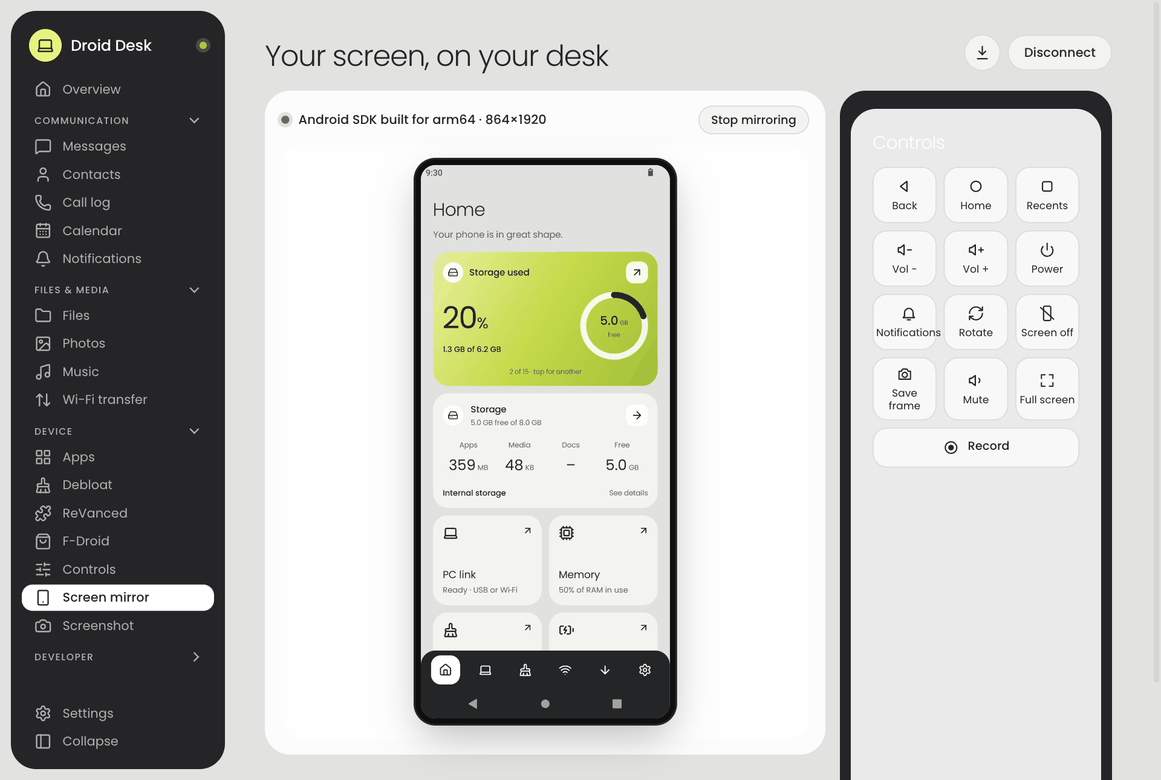
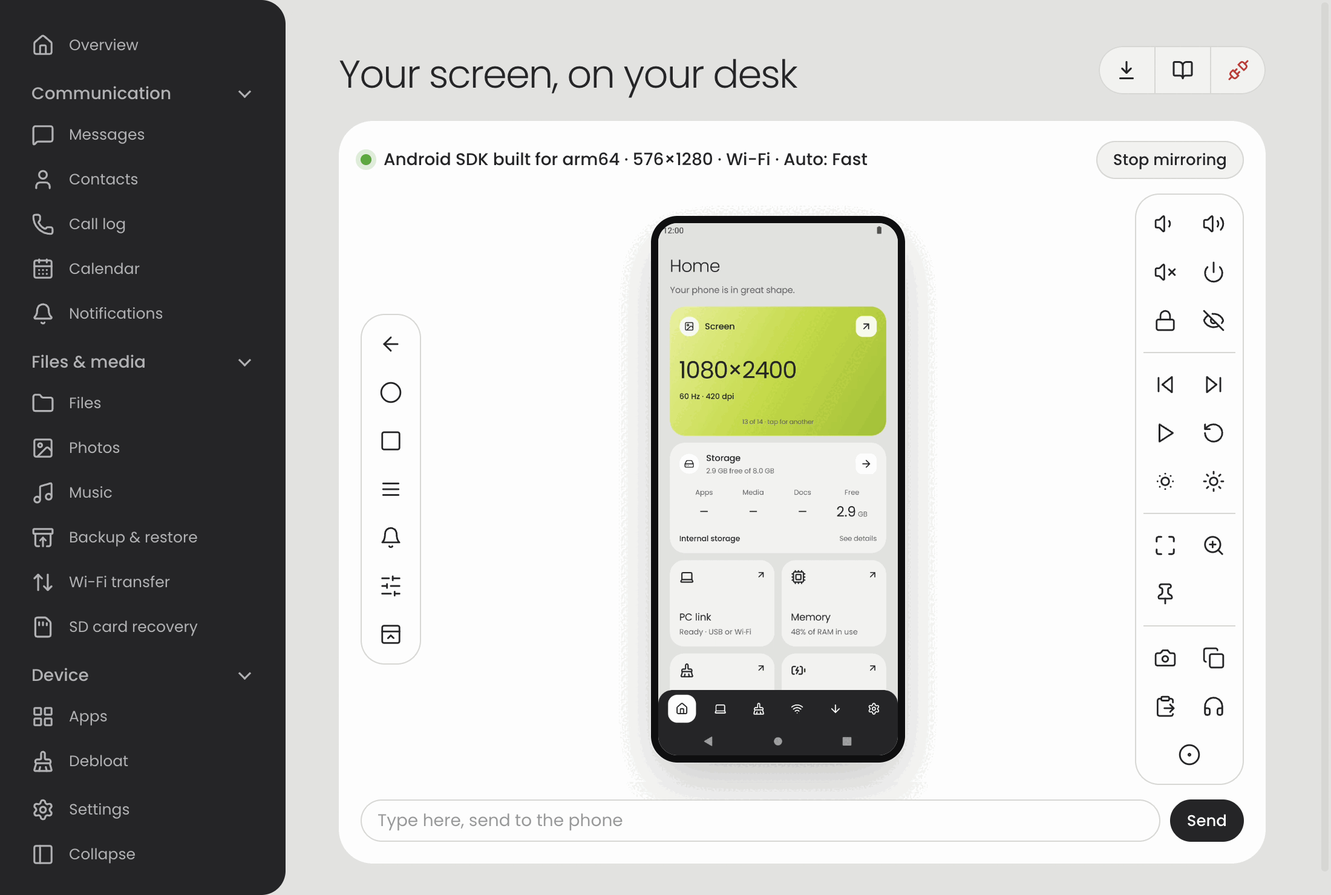
Put the mirror controls around the phone's screen, with Auto quality
While mirroring, navigation sits in a vertical strip left of the
phone's screen and every other control in an icon strip on its right,
two icons wide. The controls are icons only: their names are tooltips
and what screen readers say. The text box is under the screen.

Quality "Auto", the new default, starts at Balanced over the cable and
Fast over Wi-Fi, and when the picture falls behind the phone it starts
again a step lower, down to the new Low (540p, 2 Mbps). The sound
buffer starts larger over Wi-Fi and grows a little after each gap.

Changed region(s): [[0.0, 0.0, 0.9688, 1.0], [0.875, 0.7132, 0.9062, 0.7442]]

diff --git a/src/app.js b/src/app.js
@@ -3052,15 +3052,21 @@ function closeNotifToast(key) {
 // We decode with WebCodecs (hardware) and send touches/keys back over the control socket.
 const SCRCPY_VERSION = "3.3.3";
 const MIRROR_QUALITY = {
+  low: { maxSize: 960, videoBitRate: 2_000_000 },
   fast: { maxSize: 1280, videoBitRate: 4_000_000 },
   balanced: { maxSize: 1920, videoBitRate: 8_000_000 },
   sharp: { maxSize: 0, videoBitRate: 16_000_000 },
 };
+// "Auto" starts here for each kind of link, and steps down this ladder when the picture falls behind.
+const MIRROR_LADDER = ["balanced", "fast", "low"];
+const autoStart = () => (connectedVia === "wifi" ? "fast" : "balanced");
+// Falling behind: the newest picture is this much older than the quickest one seen, for this many seconds in a row.
+const MIRROR_BEHIND_MS = 800, MIRROR_BEHIND_SECONDS = 3;
 let mirror = null; // { client, decoder, canvas, controller, screenOff, stopping }
 
 // The options on the mirror page, remembered between launches; Settings edits the same ones.
 const mirrorPrefs = {
-  QUALITY: [["fast", "Fast (720p · 4 Mbps)"], ["balanced", "Balanced (1080p · 8 Mbps)"], ["sharp", "Sharp (full resolution · 16 Mbps)"]],
+  QUALITY: [["auto", "Auto (adjusts to the cable or Wi‑Fi)"], ["low", "Low (540p · 2 Mbps, weak Wi‑Fi)"], ["fast", "Fast (720p · 4 Mbps)"], ["balanced", "Balanced (1080p · 8 Mbps)"], ["sharp", "Sharp (full resolution · 16 Mbps)"]],
   SOURCE: [["screen", "Phone screen"], ["back", "Back camera"], ["front", "Front camera"]],
   FPS: [["60", "Up to 60 a second"], ["30", "Up to 30 a second"], ["15", "Up to 15 a second"]],
   CODEC: [["h264", "H.264 (works everywhere)"], ["h265", "H.265 (sharper at the same speed)"]],
@@ -3068,7 +3074,7 @@ const mirrorPrefs = {
     let p = {}; try { p = JSON.parse(localStorage.getItem("andromon.mirror")) || {}; } catch {}
     const one = (list, v, d) => (list.some(([id]) => id === String(v)) ? v : d);
     return {
-      quality: one(this.QUALITY, p.quality, "balanced"), source: one(this.SOURCE, p.source, "screen"),
+      quality: one(this.QUALITY, p.quality, "auto"), source: one(this.SOURCE, p.source, "screen"),
       audio: p.audio !== false, screenOff: p.screenOff === true, fps: Number(one(this.FPS, p.fps, 60)),
       codec: one(this.CODEC, p.codec, "h264"), touches: p.touches === true, awake: p.awake !== false,
       lockOnStop: p.lockOnStop === true, clipboard: p.clipboard !== false,
@@ -3090,8 +3096,12 @@ const mirrorPrefs = {
 };
 mirrorPrefs.show();
 $("mirrorSettings").addEventListener("click", () => show("settings"));
-// A control's label sits in a <span> beside its icon.
-const keyLabel = (btn, text) => { btn.querySelector("span").textContent = text; };
+// The controls are icons only: a control's name is its tooltip and what screen readers say.
+// `shown` is short text next to the icon, used only by Record for its running time.
+const keyLabel = (btn, text, shown = "") => {
+  btn.title = text; btn.setAttribute("aria-label", text);
+  const s = btn.querySelector("span"); if (s) s.textContent = shown;
+};
 
 // The control grid: [key, label, tooltip, icon] in named groups. What each does is in KEY_BUTTONS below.
 const MIRROR_KEYS = [
@@ -3100,24 +3110,35 @@ const MIRROR_KEYS = [
     ["closepanels", "Close panels", "Close the notification shade and quick settings", "panel-top-close"]]],
   ["Sound and power", [["voldown", "Vol −", "Volume down", "volume-1"], ["volup", "Vol +", "Volume up", "volume-2"], ["mutephone", "Mute phone", "Mute or unmute the phone's own sound", "volume-x"],
     ["power", "Power", "Power button", "power"], ["lock", "Lock", "Lock the phone (screen off)", "lock"], ["screen", "Screen off", "Turn the phone's own display off or on; mirroring continues", "eye-off", "mirrorScreenToggle"]]],
-  ["Media and brightness", [["prev", "Previous", "Previous track", "skip-back"], ["play", "Play / pause", "Play or pause", "play"], ["next", "Next", "Next track", "skip-forward"],
-    ["bdown", "Dimmer", "Brightness down", "sun-dim"], ["bup", "Brighter", "Brightness up", "sun"], ["rotate", "Rotate", "Rotate the phone's screen", "rotate-ccw"]]],
+  // In pairs, as the right-hand strip is two icons wide: Previous | Next, Play | Rotate, Dimmer | Brighter.
+  ["Media and brightness", [["prev", "Previous", "Previous track", "skip-back"], ["next", "Next", "Next track", "skip-forward"], ["play", "Play / pause", "Play or pause", "play"],
+    ["rotate", "Rotate", "Rotate the phone's screen", "rotate-ccw"], ["bdown", "Dimmer", "Brightness down", "sun-dim"], ["bup", "Brighter", "Brightness up", "sun"]]],
   ["View", [["full", "Full screen", "Fill this computer's screen", "maximize"], ["zoom", "Actual size", "Show the picture at its real size, or fit it to the window", "zoom-in"],
     ["ontop", "Keep on top", "Keep this window above other windows while mirroring", "pin"]]],
   ["Capture", [["shot", "Save frame", "Save the current picture as a PNG file", "camera"], ["copyframe", "Copy frame", "Copy the current picture to this computer's clipboard", "copy"],
     ["paste", "Paste", "Paste this computer's clipboard text on the phone", "clipboard-paste"], ["audio", "Mute", "Mute or unmute the phone's sound on this computer", "headphones"]]],
 ];
-$("mirrorKeys").replaceChildren(...MIRROR_KEYS.flatMap(([group, keys]) => [
-  el("div", { className: "mr-grp", textContent: group }),
-  ...keys.map(([k, label, title, ic, id]) => {
-    const b = el("button", { className: "mr-key", type: "button", title }, icon(ic), el("span", { textContent: label }));
+// Record sits at the end of the Capture row, two cells wide so its running time fits.
+const recordKey = (() => {
+  const b = el("button", { className: "mr-key mr-rec", type: "button", id: "mirrorRecord", title: "Record the mirrored screen (and sound) to an MP4 file" }, icon("circle-dot"), el("span"));
+  b.setAttribute("aria-label", "Record");
+  b.dataset.k = "record"; return b;
+})();
+// Two vertical strips beside the phone: Navigation on the left, the other groups on the right,
+// with a thin line between groups instead of a heading.
+const mirrorKeyGroup = ([group, keys]) => {
+  const row = el("div", { className: "mr-grp" }, ...keys.map(([k, label, title, ic, id]) => {
+    const b = el("button", { className: "mr-key", type: "button", title }, icon(ic));
+    b.setAttribute("aria-label", label);
     b.dataset.k = k; if (id) b.id = id;
     return b;
-  }),
-]), (() => {
-  const b = el("button", { className: "mr-key mr-rec", type: "button", id: "mirrorRecord", title: "Record the mirrored screen (and sound) to an MP4 file" }, icon("circle-dot"), el("span", { textContent: "Record" }));
-  b.dataset.k = "record"; return b;
-})());
+  }), ...(group === "Capture" ? [recordKey] : []));
+  row.setAttribute("role", "group"); row.setAttribute("aria-label", group);
+  return row;
+};
+$("mirrorNav").replaceChildren(...MIRROR_KEYS.filter(([g]) => g === "Navigation").map(mirrorKeyGroup));
+$("mirrorKeys").replaceChildren(...MIRROR_KEYS.filter(([g]) => g !== "Navigation").map(mirrorKeyGroup));
+const mirrorButtons = () => document.querySelectorAll("#mirrorNav button, #mirrorKeys button");
 
 function mirrorUi(on) {
   $("mirrorStart").hidden = on; $("mirrorStop").hidden = !on;
@@ -3129,7 +3150,7 @@ function mirrorUi(on) {
   }
   $("mirrorKeys").querySelector('[data-k="audio"]').hidden = true;
   recUi(null);
-  for (const b of $("mirrorKeys").querySelectorAll("button")) b.disabled = !on;
+  for (const b of mirrorButtons()) b.disabled = !on;
   $("mirrorIdle").hidden = on; $("mirrorStage").hidden = !on;
   $("mirrorRoot").classList.toggle("on", on);
   if (!on) { $("mirrorInfo").textContent = "Not mirroring"; keyLabel($("mirrorScreenToggle"), "Screen off"); $("mirrorScreenToggle").classList.remove("on"); }
@@ -3137,7 +3158,8 @@ function mirrorUi(on) {
 }
 mirrorUi(false);
 
-async function startMirror() {
+// `level` (a MIRROR_QUALITY key) is only given when Auto restarts the mirroring at a lower quality.
+async function startMirror(level) {
   if (!adb || mirror) return;
   if (!WebCodecsVideoDecoder.isSupported) throw new Error("This computer's browser engine can't decode video (WebCodecs missing).");
   const btn = $("mirrorStart"); busy(btn, true, "Starting…");
@@ -3151,7 +3173,9 @@ async function startMirror() {
 
     info.textContent = "Starting…";
     const prefs = mirrorPrefs.get(); // Settings › Screen mirror
-    const q = MIRROR_QUALITY[prefs.quality] || MIRROR_QUALITY.balanced;
+    const auto = prefs.quality === "auto";
+    level = level || (auto ? autoStart() : prefs.quality);
+    const q = MIRROR_QUALITY[level] || MIRROR_QUALITY.balanced;
     const source = prefs.source; // screen | back | front
     // H.265 only when this computer can decode it; a phone that can't encode it falls back below.
     let codec = prefs.codec;
@@ -3198,14 +3222,53 @@ async function startMirror() {
   const video = await client.videoStream;
   const decoder = new WebCodecsVideoDecoder({ codec: video.metadata.codec, renderer });
   const controller = client.controller;
-  const m = mirror = { client, decoder, canvas, controller, screenOff: false, stopping: false, log, videoConfig: null, rec: null, audio: null };
+  const prefsNow = mirrorPrefs.get();
+  const m = mirror = { client, decoder, canvas, controller, screenOff: false, stopping: false, log, videoConfig: null, rec: null, audio: null,
+    level: MIRROR_QUALITY[level] ? level : "balanced", auto: prefsNow.quality === "auto", via: connectedVia,
+    stats: { frames: 0, fps: 0, lagMs: 0, minOffset: Infinity, lastPts: -1, behind: 0, hinted: false } };
 
   const showSize = () => {
-    info.textContent = `${video.metadata.deviceName || "Phone"} · ${decoder.width || video.width}×${decoder.height || video.height}`;
+    const st = m.stats;
+    info.textContent = [
+      `${video.metadata.deviceName || "Phone"} · ${decoder.width || video.width}×${decoder.height || video.height}`,
+      st.fps ? `${st.fps} fps` : "",
+      m.via === "wifi" ? "Wi‑Fi" : "USB",
+      m.auto ? `Auto: ${{ low: "Low", fast: "Fast", balanced: "Balanced" }[m.level] || m.level}` : "",
+      st.lagMs >= 300 ? `${(st.lagMs / 1000).toFixed(1)} s behind` : "",
+    ].filter(Boolean).join(" · ");
   };
   decoder.sizeChanged(showSize);
+  // How far behind the phone the picture is: each frame's arrival time minus the time the phone
+  // captured it (pts), compared with the quickest frame so far. Clocks differ, but only the change counts.
+  const measure = (packet) => {
+    if (packet.type !== "data" || packet.pts === undefined) return;
+    const st = m.stats, pts = Number(packet.pts);
+    if (pts < st.lastPts) st.minOffset = Infinity; // the phone restarted its encoder (rotation): start over
+    st.lastPts = pts; st.frames++;
+    const offset = performance.now() * 1000 - pts;
+    if (offset < st.minOffset) st.minOffset = offset;
+    st.lagMs = Math.max(0, (offset - st.minOffset) / 1000);
+  };
+  m.statsTimer = setInterval(() => {
+    const st = m.stats;
+    st.fps = st.frames; st.frames = 0;
+    if (!st.fps) st.lagMs = 0; // nothing moved on the phone: nothing to be behind on
+    st.behind = st.lagMs > MIRROR_BEHIND_MS ? st.behind + 1 : 0;
+    showSize();
+    if (st.behind < MIRROR_BEHIND_SECONDS || m.stopping) return;
+    st.behind = 0;
+    const next = MIRROR_LADDER[MIRROR_LADDER.indexOf(m.level) + 1];
+    if (m.auto && next && !m.rec) {
+      // Waiting doesn't help: what is queued on the way has to be thrown away, so start again lighter.
+      stopMirror().then(() => startMirror(next)).then(() => toast(`The connection couldn't keep up, so the picture quality was lowered (${next})`)).catch(showError);
+    } else if (!st.hinted) {
+      st.hinted = true;
+      toast(m.auto ? "The picture is falling behind the phone. Move closer to the Wi‑Fi router or use the cable."
+        : "The picture is falling behind the phone. Pick a lower quality (or Auto) in Settings › Screen mirror.");
+    }
+  }, 1000);
   // Every packet also passes by the recorder, which copies it into an MP4 while recording is on.
-  const tap = new TransformStream({ transform(packet, ctl) { recordVideoPacket(m, packet); ctl.enqueue(packet); } });
+  const tap = new TransformStream({ transform(packet, ctl) { measure(packet); recordVideoPacket(m, packet); ctl.enqueue(packet); } });
   video.stream.pipeThrough(tap).pipeTo(decoder.writable).catch((e) => { if (mirror && !mirror.stopping) console.warn("video stream ended", e); });
   // The audio stream must always be consumed (or it stalls the connection), even if it fails to start.
   client.audioStream?.then((meta) => startAudio(m, meta)).catch((e) => console.warn("audio", e));
@@ -3233,6 +3296,7 @@ async function startMirror() {
 async function stopMirror(message) {
   const m = mirror; if (!m) return;
   m.stopping = true; mirror = null;
+  clearInterval(m.statsTimer);
   await stopRecording(m); // save what was recorded so far
   try { if (m.screenOff) await m.controller?.setScreenPowerMode(AndroidScreenPowerMode.Normal); } catch {}
   try { await m.client.close(); } catch {}
@@ -3253,15 +3317,20 @@ function startAudio(m, meta) {
   if (m.stopping || typeof AudioDecoder === "undefined") { meta.stream.pipeTo(sink).catch(() => {}); return; }
   const ctx = new AudioContext({ sampleRate: 48000, latencyHint: "interactive" });
   const gain = ctx.createGain(); gain.gain.value = audioMuted ? 0 : 1; gain.connect(ctx.destination);
-  let next = 0;
+  // Sound is scheduled a little ahead (the jitter buffer). Wi‑Fi delivers in bursts, so it starts
+  // with more, and each gap in the sound adds a little more, up to a quarter of a second.
+  let next = 0, ahead = m.via === "wifi" ? 0.12 : 0.06;
   const decoder = new AudioDecoder({
     output(data) {
       try {
         const buf = ctx.createBuffer(data.numberOfChannels, data.numberOfFrames, data.sampleRate);
         for (let c = 0; c < data.numberOfChannels; c++) data.copyTo(buf.getChannelData(c), { planeIndex: c, format: "f32-planar" });
         const now = ctx.currentTime;
-        // Keep ~60 ms of buffer; if playback fell behind or a backlog built up, restart the schedule.
-        if (next < now + 0.01 || next > now + 0.35) next = now + 0.06;
+        if (next < now + 0.01) { // ran dry: a gap was heard
+          if (next) ahead = Math.min(0.25, ahead + 0.03);
+          next = now + ahead;
+        } else if (next > now + ahead + 0.3) next = now + ahead; // a backlog built up: catch up
+
         const src = ctx.createBufferSource(); src.buffer = buf; src.connect(gain); src.start(next);
         next += buf.duration;
       } finally { data.close(); }
@@ -3382,9 +3451,9 @@ function recUi(m) {
   const rec = m === mirror ? m?.rec : null;
   b.classList.toggle("rec-on", !!rec);
   if (!rec) { keyLabel(b, "Record"); return; }
-  if (rec.t0 == null) { keyLabel(b, "Waiting for picture…"); return; }
-  const s = Math.floor((Date.now() - rec.started) / 1000);
-  keyLabel(b, `Stop ${Math.floor(s / 60)}:${String(s % 60).padStart(2, "0")} · ${fmtSize(rec.bytes)}`);
+  if (rec.t0 == null) { keyLabel(b, "Waiting for picture…", "…"); return; }
+  const s = Math.floor((Date.now() - rec.started) / 1000), time = `${Math.floor(s / 60)}:${String(s % 60).padStart(2, "0")}`;
+  keyLabel(b, `Stop recording (${time}, ${fmtSize(rec.bytes)})`, time);
 }
 
 function setPhoneScreen(on) {
@@ -3549,13 +3618,13 @@ const KEY_BUTTONS = {
   },
 };
 const mirrorKey = (k) => $("mirrorKeys").querySelector(`[data-k="${k}"]`);
-// The text box under the controls: whatever is typed there is pasted on the phone, in any language.
+// The text box under the phone's screen: whatever is typed there is pasted on the phone, in any language.
 $("mirrorType").addEventListener("submit", (e) => {
   e.preventDefault();
   const text = $("mirrorText").value; if (!text || !mirror?.controller) return;
   mirror.controller.setClipboard({ sequence: 0n, paste: true, content: text }).then(() => { $("mirrorText").value = ""; }, showError);
 });
-$("mirrorKeys").addEventListener("click", (e) => {
+for (const strip of [$("mirrorNav"), $("mirrorKeys")]) strip.addEventListener("click", (e) => {
   const b = e.target.closest("button[data-k]"); if (!b || !mirror) return;
   Promise.resolve(KEY_BUTTONS[b.dataset.k]?.()).catch(showError);
   if (b.dataset.k !== "full" && b.dataset.k !== "paste") mc.focus();

diff --git a/renderer/index.html b/renderer/index.html
@@ -114,7 +114,7 @@
   @media (min-width: 761px) {
     .app.rail { grid-template-columns: 64px 1fr; }
     .app.rail aside { padding: 16px 8px 12px; }
-    .app.rail aside { position: sticky; }
+    .app.rail > aside { width: 64px; }
     .app.rail nav button { justify-content: center; padding: 7px 0; position: relative; }
     .app.rail nav button > span { display: none; }
     .app.rail nav button .nbadge { position: absolute; top: 2px; right: 6px; min-width: 8px; width: 8px; height: 8px; padding: 0; font-size: 0; margin: 0; }
@@ -838,7 +838,9 @@
   /* ---------- mirror ---------- */
   .mr { display: grid; grid-template-columns: minmax(0, 1fr) 300px; gap: 16px; align-items: start; }
   .mr .card { margin: 0; }
-  .mr-side { display: grid; gap: 16px; position: sticky; top: calc(var(--head-h, 96px) + 12px); }
+  .mr-side { display: grid; gap: 16px; align-content: start; position: sticky; top: calc(var(--head-h, 96px) + 12px);
+    /* it is an <aside>: undo the navigation sidebar's look */
+    background: none; color: inherit; border-radius: 0; padding: 0; height: auto; overflow: visible; }
   .mr-side h2 { margin: 0 0 12px; }
   .mr-view { padding: 16px 18px 18px; }
   .mr-bar { display: flex; align-items: center; gap: 10px; min-height: 32px; margin-bottom: 12px; }
@@ -853,27 +855,34 @@
   .mr-ghost b { font-size: 17px; }
   .mr-ghost .btn { margin-top: 10px; }
   .mirror-stage { display: flex; justify-content: center; align-items: center; background: var(--panel-2); border-radius: 22px; padding: 22px; }
-  .mirror-stage canvas { display: block; max-width: 100%; max-height: calc(100vh - 250px); width: auto; height: auto; border-radius: 16px; touch-action: none; cursor: default; outline: none; box-shadow: 0 0 0 6px #0d0d0e, 0 0 0 7px rgba(255,255,255,.14), 0 18px 44px rgba(0,0,0,.28); }
+  .mirror-stage canvas { display: block; max-width: 100%; max-height: calc(100vh - 300px); width: auto; height: auto; border-radius: 16px; touch-action: none; cursor: default; outline: none; box-shadow: 0 0 0 6px #0d0d0e, 0 0 0 7px rgba(255,255,255,.14), 0 18px 44px rgba(0,0,0,.28); }
   .mirror-stage canvas:focus-visible { box-shadow: 0 0 0 6px #0d0d0e, 0 0 0 8px var(--ink), 0 18px 44px rgba(0,0,0,.28); }
   .mirror-stage:fullscreen { border-radius: 0; padding: 0; background: #000; }
   .mirror-stage:fullscreen canvas { max-height: 100vh; border-radius: 0; box-shadow: none; }
-  .mr-keys { display: grid; grid-template-columns: repeat(3, minmax(0, 1fr)); gap: 8px; }
-  .mr-key { display: grid; justify-items: center; align-content: center; gap: 5px; min-height: 62px; padding: 9px 4px; border: 0; border-radius: 16px; background: var(--panel-2); color: var(--text); font: inherit; font-size: 11.5px; line-height: 1.2; cursor: pointer; box-shadow: inset 0 0 0 1px var(--border); }
+  /* While mirroring: navigation in a vertical strip left of the phone, every other control in one on its right. */
+  .mr-screen { display: grid; grid-template-columns: auto minmax(0, 1fr) auto; gap: 12px; align-items: center; }
+  .mr:not(.on) .mr-screen { display: block; }
+  .mr:not(.on) .mr-strip, .mr:not(.on) .mr-type { display: none; }
+  .mr-strip { display: grid; gap: 8px; align-content: start; padding: 7px; border-radius: 20px; background: var(--panel-2); box-shadow: inset 0 0 0 1px var(--border);
+    max-height: calc(100vh - 250px); overflow-y: auto; scrollbar-width: none; }
+  .mr-grp { display: grid; grid-template-columns: 36px; gap: 4px; padding-top: 8px; border-top: 1px solid var(--border); }
+  .mr-strip-r .mr-grp { grid-template-columns: repeat(2, 36px); }
+  .mr-grp:first-child { padding-top: 0; border-top: 0; }
+  .mr-key { display: grid; place-items: center; width: 36px; height: 36px; padding: 0; border: 0; border-radius: 11px; background: transparent; color: var(--text); cursor: pointer; }
+  .mr-key[hidden] { display: none; }
   .mr-key svg { width: 19px; height: 19px; fill: none; stroke: currentColor; stroke-width: 1.8; stroke-linecap: round; stroke-linejoin: round; }
   .mr-key:hover:not(:disabled) { background: var(--chip); }
   .mr-key:active:not(:disabled) { transform: scale(.97); }
   .mr-key:focus-visible { outline: 2px solid var(--ink); outline-offset: 1px; }
   .mr-key:disabled { opacity: .45; cursor: not-allowed; }
   .mr-key.on { background: var(--ink); color: var(--on-ink); box-shadow: none; }
-  .mr-grp { grid-column: 1 / -1; margin: 6px 2px -2px; font-size: 12px; color: var(--muted); }
-  .mr-grp:first-child { margin-top: 0; }
   .mr-type { display: flex; gap: 8px; margin-top: 12px; }
   .mr-type input { flex: 1; min-width: 0; padding: 8px 14px; border: 0; border-radius: 999px; background: var(--panel-2); color: var(--text); font: inherit; box-shadow: inset 0 0 0 1px var(--border); }
   .mr-type input:focus { outline: none; box-shadow: 0 0 0 2px var(--ink); }
   .mirror-stage.actual { overflow: auto; justify-content: safe center; align-items: safe center; max-height: calc(100vh - 210px); }
   .mirror-stage.actual canvas { max-width: none; max-height: none; }
-  .mr-controls { max-height: calc(100vh - var(--head-h, 96px) - 36px); overflow: auto; }
-  .mr-rec { grid-column: 1 / -1; grid-auto-flow: column; justify-content: center; min-height: 44px; gap: 9px; font-size: 13px; font-weight: 500; }
+  .mr-rec { grid-column: span 2; width: auto; grid-auto-flow: column; justify-content: center; gap: 6px; font: inherit; font-size: 12.5px; font-weight: 500; font-variant-numeric: tabular-nums; }
+  .mr-rec span:empty { display: none; }
   .mr-rec.rec-on { background: var(--danger); color: #fff; box-shadow: none; }
   .mr-setup dl { display: grid; grid-template-columns: auto 1fr; gap: 6px 14px; margin: 0 0 14px; font-size: 13px; }
   .mr-setup dt { color: var(--muted); }
@@ -884,8 +893,9 @@
   .mr-tips dt { color: var(--muted); }
   .mr-tips dd { margin: 0; }
   .mr-tips p { margin: 0; }
-  .mr:not(.on) .mr-controls, .mr.on .mr-setup, .mr.on .mr-tips { display: none; }
-  @media (max-width: 980px) { .mr { grid-template-columns: minmax(0, 1fr); } .mr-side { position: static; } .mr-keys { grid-template-columns: repeat(6, minmax(0, 1fr)); } }
+  .mr.on { grid-template-columns: minmax(0, 1fr); }
+  .mr.on .mr-side { display: none; }
+  @media (max-width: 980px) { .mr { grid-template-columns: minmax(0, 1fr); } .mr-side { position: static; } }
 
   /* ---------- apps, debloat, misc ---------- */
   .app-icon { width: 56px; height: 56px; border-radius: 18px; background: var(--lavender); color: var(--text); display: grid; place-items: center; font-size: 24px; font-weight: 500; flex: none; overflow: hidden; }
@@ -1431,6 +1441,8 @@
             <span class="sp"></span>
             <button class="btn sm" id="mirrorStop" hidden>Stop mirroring</button>
           </div>
+          <div class="mr-screen">
+          <div class="mr-strip" id="mirrorNav" role="toolbar" aria-label="Navigation" aria-orientation="vertical"></div>
           <div class="mirror-idle" id="mirrorIdle">
             <div class="mr-ghost">
               <svg viewBox="0 0 24 24" aria-hidden="true"><rect x="5" y="2" width="14" height="20" rx="2.5"/><path d="M12 18h.01"/></svg>
@@ -1442,20 +1454,18 @@
           <div class="mirror-stage" id="mirrorStage" hidden>
             <canvas id="mirrorCanvas" tabindex="0" aria-label="Phone screen. Click to tap, type to send keys."></canvas>
           </div>
+          <div class="mr-strip mr-strip-r" id="mirrorKeys" role="toolbar" aria-label="Phone controls" aria-orientation="vertical"></div>
+          </div>
+          <form class="mr-type" id="mirrorType">
+            <input type="text" id="mirrorText" placeholder="Type here, send to the phone" autocomplete="off" aria-label="Text to type on the phone">
+            <button class="btn sm primary" type="submit">Send</button>
+          </form>
         </div>
         <aside class="mr-side">
           <div class="card mr-setup">
             <h2>Options</h2>
             <dl id="mirrorSummary"></dl>
             <button class="btn sm" type="button" id="mirrorSettings">Change in Settings</button>
-          </div>
-          <div class="card mr-controls">
-            <h2>Controls</h2>
-            <div class="mr-keys" id="mirrorKeys"></div>
-            <form class="mr-type" id="mirrorType">
-              <input type="text" id="mirrorText" placeholder="Type here, send to the phone" autocomplete="off" aria-label="Text to type on the phone">
-              <button class="btn sm primary" type="submit">Send</button>
-            </form>
           </div>
           <div class="card mr-tips">
             <h2>How it works</h2>

diff --git a/src/knowledge.js b/src/knowledge.js
@@ -133,7 +133,7 @@ const PAGES = {
     intro: "See the phone's screen in this window and use it with mouse and keyboard.",
     how: ["Start mirroring: a small capture helper (scrcpy) runs on the phone only while this is on; nothing is installed.", "Click is a tap, drag is a swipe, the wheel scrolls, right-click or Esc is Back. Typing goes to the phone.", "The control panel has the phone's buttons, media keys, brightness, and view options.", "Record saves the picture and sound as an MP4 file; Save frame and Copy frame take a still."],
     tips: ["Quality, sound, video format and the rest are in Settings › Screen mirror.", "Actual size shows every pixel; Keep on top holds the window above others."],
-    tour: [["#mirrorStart", "Start", "Begins mirroring with the options shown on the right."], [".mr-setup", "Options in use", "Set in Settings › Screen mirror."], ["#mirrorStage", "The phone's screen", "Click, drag, scroll and type here."], ["#mirrorKeys", "Controls", "The phone's buttons and more, in groups."], ["#mirrorType", "Type box", "Text typed here is pasted on the phone, in any language."]],
+    tour: [["#mirrorStart", "Start", "Begins mirroring with the options shown on the right."], [".mr-setup", "Options in use", "Set in Settings › Screen mirror."], ["#mirrorStage", "The phone's screen", "Click, drag, scroll and type here."], ["#mirrorNav", "Navigation", "Back, Home, Recents and the phone's panels, left of the screen."], ["#mirrorKeys", "Controls", "Sound, power, media, view and capture, right of the screen. Point at an icon to see its name."], ["#mirrorType", "Type box", "Text typed here is pasted on the phone, in any language."]],
   },
   screen: {
     name: "Screenshot",

diff --git a/README.md b/README.md
@@ -46,7 +46,7 @@ The sidebar groups the tools: **Communication** (Messages, Contacts, Call log, C
 | Phone links* | On the Overview. **Send to phone**: a link or text (typed, pasted or dropped) opens on the phone or arrives as a notification with Copy; the last 6 are kept. **Shared clipboard**: "Copy to phone's clipboard" and "Get phone's clipboard"; text sent from the phone ("Send clipboard to PC" on its notification or quick-settings tile) lands in this computer's clipboard. **Find my phone**: rings at full volume, even on silent, for up to 2 minutes. **Now playing on phone**: cover, title, play/pause, next/previous and seek for whatever app is playing; needs the companion's "Notification access" (one click, the same step as the Notifications tab). **Call** buttons on contacts' numbers and call-log rows dial on the phone (click twice to confirm) | `src/links.js`; companion `push.send`, `clip.set`, `phone.ring`, `player.control`, and `clip` / `ring` / `media` events on the `events` stream, which now stays open while a phone is connected even with call alerts and notifications off. "Get phone's clipboard" opens the companion's `ClipSendActivity` with `am start` (the phone must be unlocked). Call uses `am start -a android.intent.action.CALL`. Reading this computer's clipboard needs the `clipboard-read` permission, allowed for the app's own page in `main.js`. The recent list is stored in this computer's profile as plain text; clipboard contents aren't stored |
 | Shizuku | On its own **Shizuku** page. For phones without the [Shizuku](https://shizuku.rikka.app) app it links to the download page. **Start Shizuku** when it is installed but not running (needed after every restart of an unrooted phone); a status badge when it runs. The companion uses Shizuku for its Freezer, RAM manager and Battery saver without the computer | `src/shizuku.js`; Shizuku's documented start command `sh /sdcard/Android/data/moe.shizuku.privileged.api/start.sh`, or its `libshizuku.so` starter when the script isn't there yet; status from `ps -A` (`shizuku_server`) |
 | Files | Browse `/sdcard`; download, upload, delete | ADB sync protocol, `rm` |
-| Screen mirror | Live phone screen in the window, 60 fps. Mouse = touch, wheel = scroll, keyboard typing, right-click/Esc = Back, clipboard both ways. Back / Home / Recents / volume / power / notifications / rotate buttons, phone-screen-off mode, save frame, full screen. Quality: 720p, 1080p or full. **Sound** from the phone (Android 11+). **Back/front camera** instead of the screen (Android 12+). **Record** to MP4 (picture + sound) | [scrcpy](https://github.com/Genymobile/scrcpy) server v3.3.3 (`renderer/scrcpy-server.jar`, Apache-2.0) run via `app_process`; H.264 decoded with WebCodecs via `@yume-chan/adb-scrcpy`; Opus audio via WebCodecs `AudioDecoder` + Web Audio; recording muxes the phone's own H.264/Opus packets into MP4 with [Mediabunny](https://mediabunny.dev) (no re-encoding) |
+| Screen mirror | Live phone screen in the window, 60 fps. Quality **Auto** (the default) starts at 1080p · 8 Mbps over USB and 720p · 4 Mbps over Wi‑Fi; when the picture falls more than 0.8 s behind the phone for 3 s (each frame's arrival compared with its capture time), it restarts one step lower (down to 540p · 2 Mbps), since what is already queued on the link can't be skipped. The status line shows frames per second and the delay. The phone's sound uses a jitter buffer that starts larger on Wi‑Fi and grows after each gap. Mouse = touch, wheel = scroll, keyboard typing, right-click/Esc = Back, clipboard both ways. Back / Home / Recents / volume / power / notifications / rotate buttons, phone-screen-off mode, save frame, full screen. Quality: 720p, 1080p or full. **Sound** from the phone (Android 11+). **Back/front camera** instead of the screen (Android 12+). **Record** to MP4 (picture + sound) | [scrcpy](https://github.com/Genymobile/scrcpy) server v3.3.3 (`renderer/scrcpy-server.jar`, Apache-2.0) run via `app_process`; H.264 decoded with WebCodecs via `@yume-chan/adb-scrcpy`; Opus audio via WebCodecs `AudioDecoder` + Web Audio; recording muxes the phone's own H.264/Opus packets into MP4 with [Mediabunny](https://mediabunny.dev) (no re-encoding) |
 | Test automation | For testers: **record** a test by using the app on the live phone screen (tap, long-press, swipe, type, Back/Home), then **run** it again whenever the app changes. Buttons and fields are remembered by resource id / text / description rather than by position. Add checks ("this element / this text is shown" or "is not shown"), waits, screenshots and "open app" steps; edit, reorder and delete steps. A run waits for each element (10 s by default), stops at the first failing step and keeps a screenshot of it. **Run all**, HTML report, JUnit XML, import/export tests as JSON | `renderer/ui-helper.jar` (source in `uihelper/`) run via `app_process`: one UiAutomation session for reading the screen and injecting touches/keys. Fallback: `uiautomator dump` + `input`. See "Test automation" below |
 | Screenshot | Capture the screen and save it as PNG | `screencap -p` |
 | Developer | Logcat with crash finder, developer options as switches, per-app tools (permissions, Save APK, intents & deep links, private storage), screen recording and bug reports, live CPU/memory/frame graphs, Doze and battery tests, port forwarding and proxy, typing and fake GPS, several phones at once (see [Developer tools](#developer-tools)) | `logcat`, `setprop`/`settings`, `pm`/`am`/`run-as`, `screenrecord`, `bugreportz`, `dumpsys`, `adb reverse`, `cmd location` |
